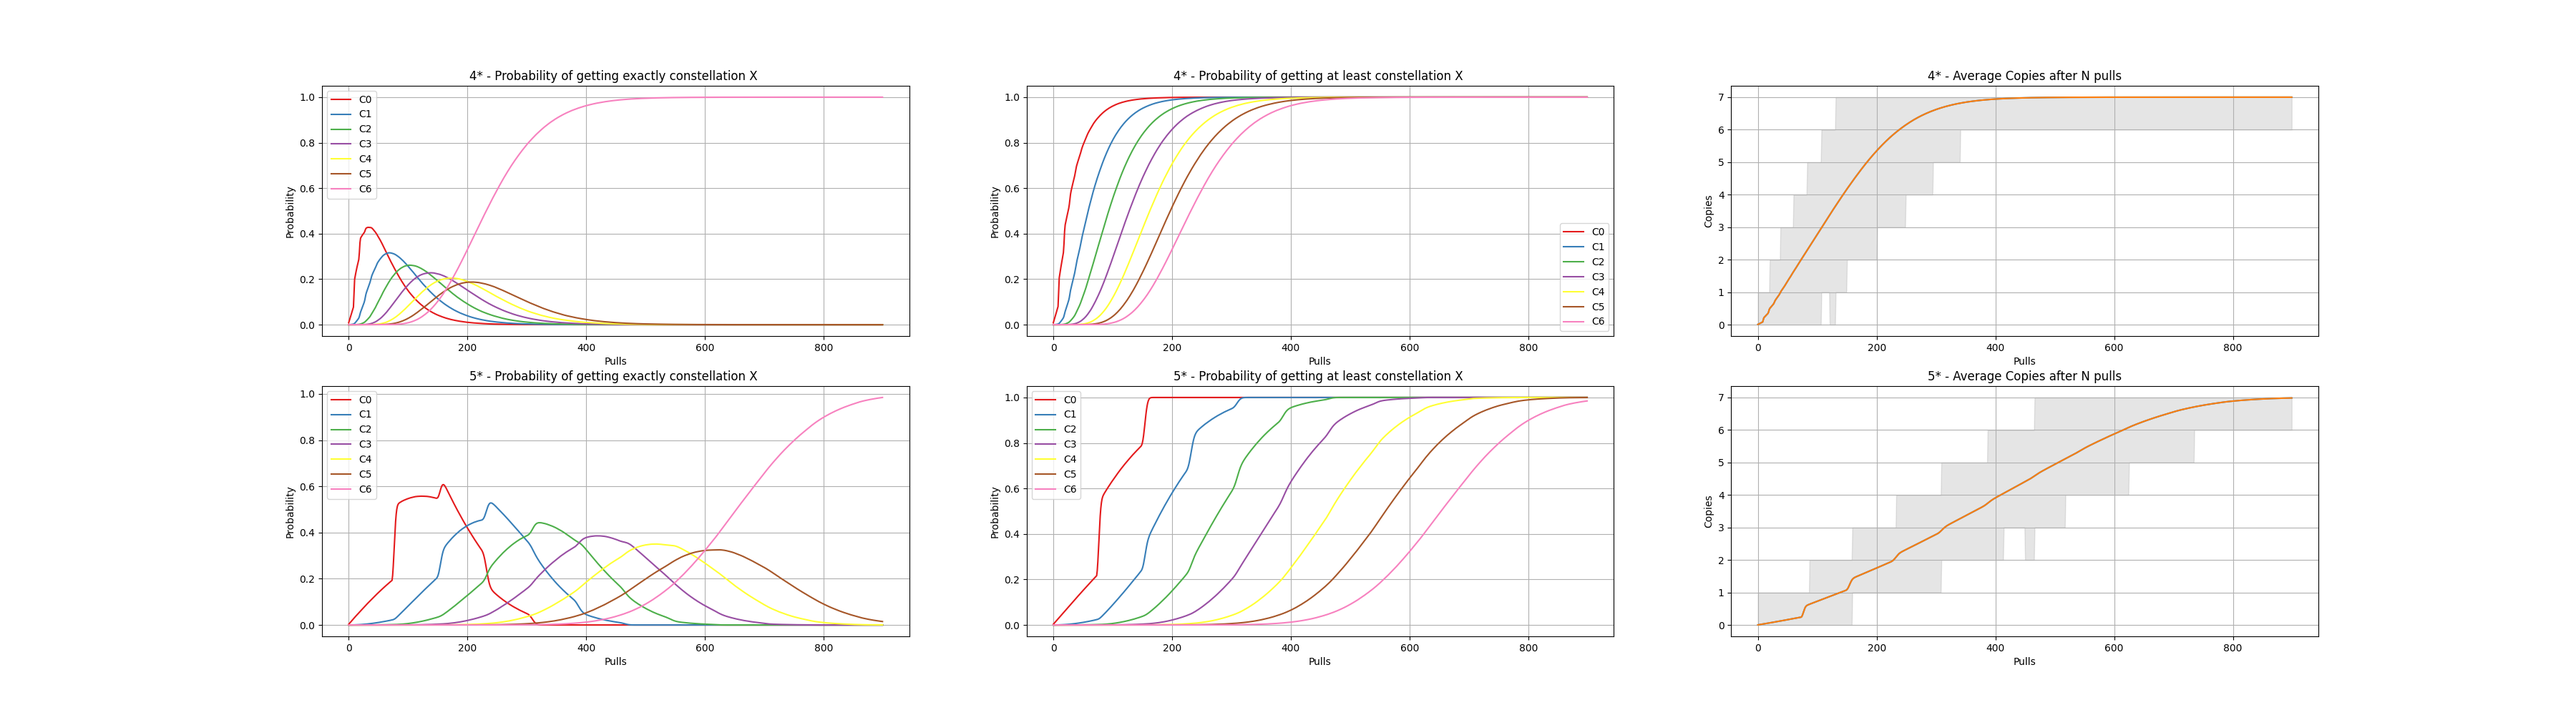
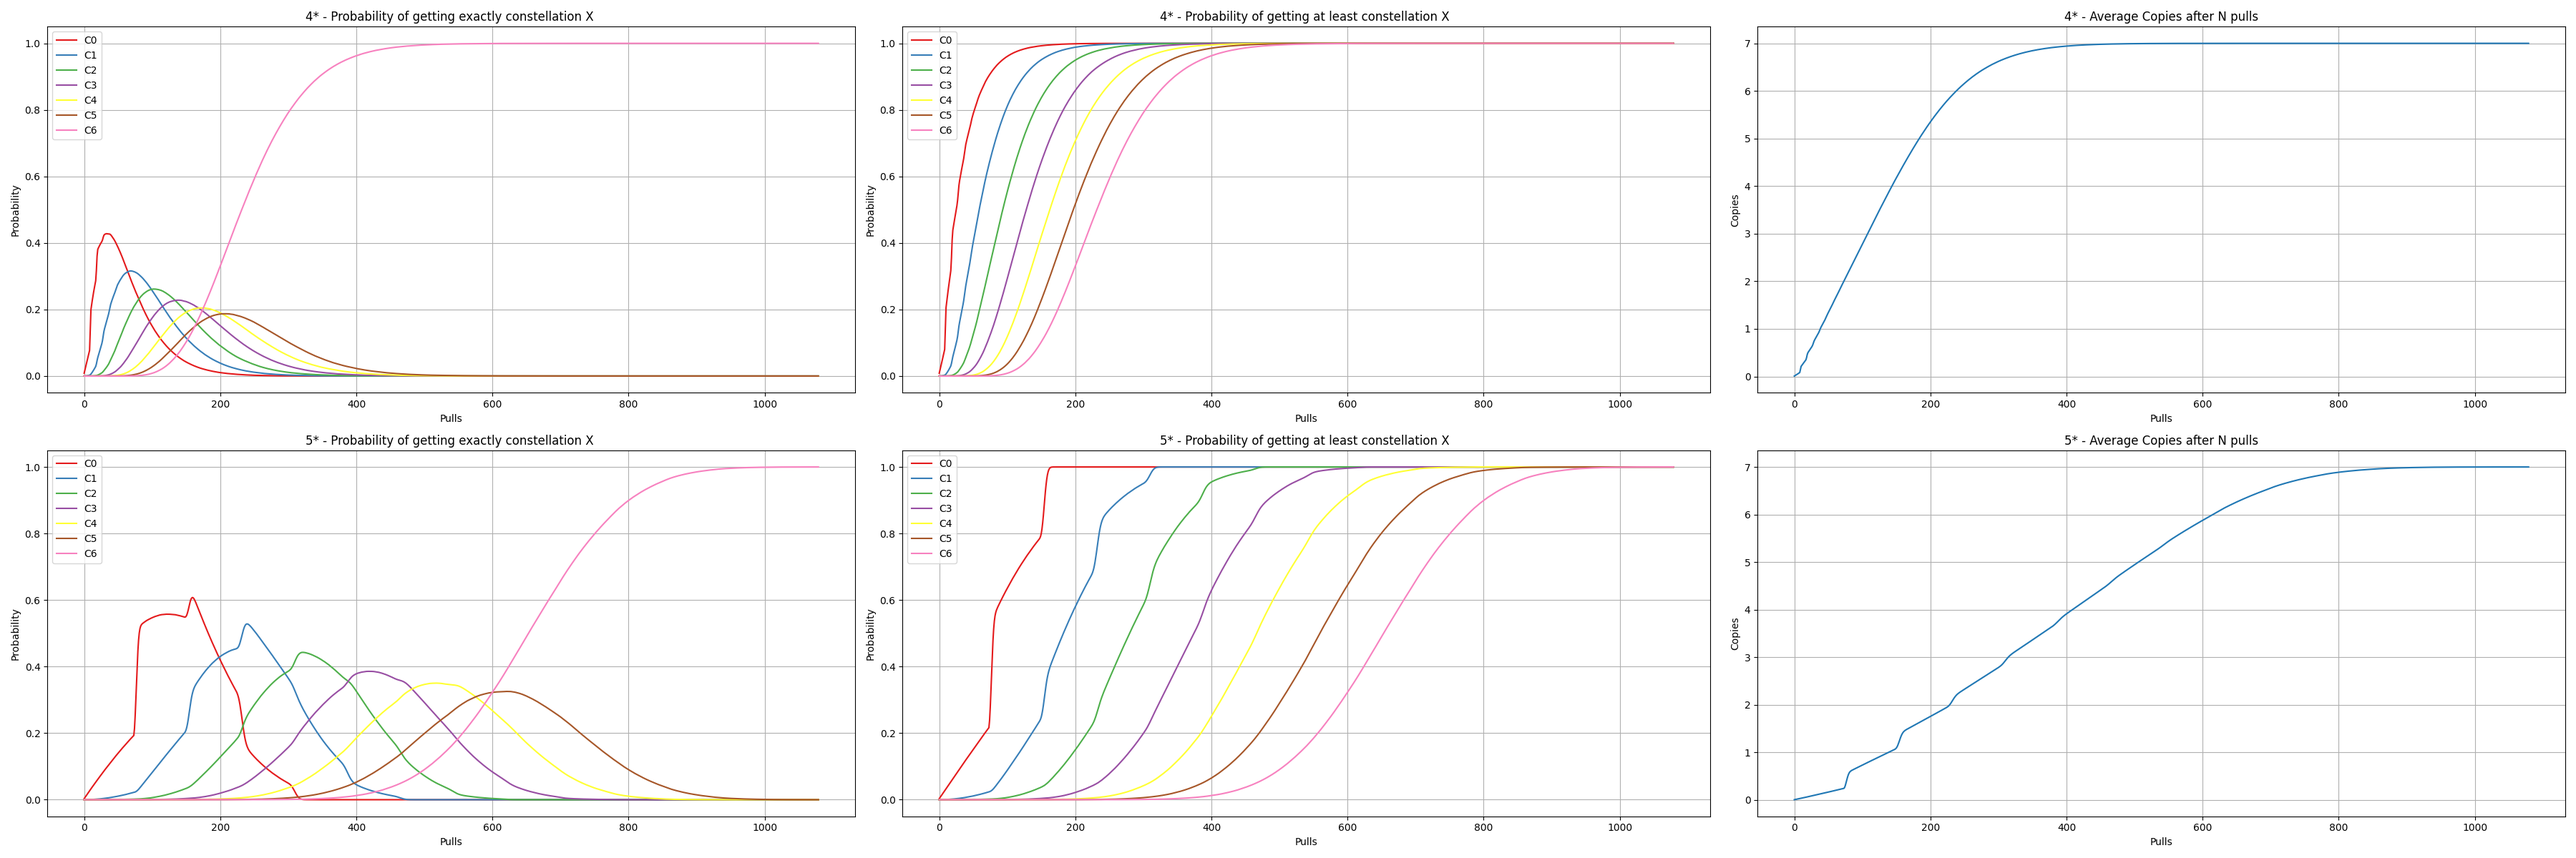
Added Tables, Readme Update

diff --git a/calculate_wish_stats.py b/calculate_wish_stats.py
@@ -3,7 +3,26 @@ import numpy as np
 from tqdm import trange
 import seaborn as sns
 import matplotlib.pyplot as plt
-plt.show()
+from prettytable import PrettyTable
+
+
+#https://gist.github.com/dbzm/68256c86c60d70072576
+def to_markdown_table(pt):
+    """
+    Print a pretty table as a markdown table
+
+    :param py:obj:`prettytable.PrettyTable` pt: a pretty table object.  Any customization
+      beyond int and float style may have unexpected effects
+
+    :rtype: str
+    :returns: A string that adheres to git markdown table rules
+    """
+    _junc = pt.junction_char
+    if _junc != "|":
+        pt.junction_char = "|"
+    markdown = [row[1:-1] for row in pt.get_string().split("\n")[1:-1]]
+    pt.junction_char = _junc
+    return "\n".join(markdown)
 
 #constants from
 #https://www.hoyolab.com/article/497840
@@ -79,7 +98,7 @@ def calculate_asymmetric_conf_interval(observations, data_means, confidence=0.95
 
 
 
-def calculate_wish_stats(trials, chain_length):
+def calculate_wish_stats(trials, chain_length, table_step):
     t = 0
     loot = np.zeros((trials, chain_length), dtype=int)
 
@@ -129,23 +148,66 @@ def calculate_wish_stats(trials, chain_length):
         #losers get 3 stars
         loot[~t_loot_distributed, t] = loot_table['three']
 
-
     print('Simulation done')
 
-    print('Evaluating Simulation and plotting...')
-    max_constellation = 7
-    wanted_five_stars_up_to = np.minimum(np.cumsum(loot == loot_table['five_banner'], axis=1), max_constellation)
-    wanted_four_star_up_to = np.minimum(np.cumsum(loot == loot_table['four_banner_wanted'], axis=1), max_constellation)
+    print('Evaluating Simulation...')
+    max_num_copies = 7
+    wanted_five_stars_up_to = np.minimum(np.cumsum(loot == loot_table['five_banner'], axis=1), max_num_copies)
+    wanted_four_star_up_to = np.minimum(np.cumsum(loot == loot_table['four_banner_wanted'], axis=1), max_num_copies)
 
-    scale_factor = 4
-    fig, axs = plt.subplots(2, 3, figsize=(3 * 3 * scale_factor, 2.5 * scale_factor))
+    exact_constellation_probabilities = {}
+    at_least_constellation_probabilities = {}
+    average_copies = {}
+
     for i, (data, name) in enumerate(zip([wanted_four_star_up_to, wanted_five_stars_up_to], ['4*', '5*'])):
+        exact_ps_i = np.zeros((max_num_copies, chain_length), dtype=float)
+        at_least_ps_i = np.zeros((max_num_copies, chain_length), dtype=float)
+
+        for const in range(max_num_copies):
+            exact_ps_i[const] = np.mean(data == const + 1, axis=0)
+            at_least_ps_i[const] = np.mean(data >= const + 1, axis=0)
+
+        avg_copies_i = np.mean(data, axis=0)
+
+        exact_constellation_probabilities[name] = exact_ps_i
+        at_least_constellation_probabilities[name] = at_least_ps_i
+        average_copies[name] = avg_copies_i
+
+    table_idcs = np.arange(table_step, chain_length + table_step, table_step, dtype=int) - 1
+    table_idcs[-1] = chain_length - 1
+
+    print('Generating tables...')
+    for name in ['4*', '5*']:
+        for data_dict, table_name in zip([exact_constellation_probabilities, at_least_constellation_probabilities],
+                                         ['Probability of getting exactly constellation X',
+                                          'Probability of getting at least constellation X']):
+            data = data_dict[name]
+
+            table_column_names = ['Pulls', ] + [f'C{n}' for n in range(max_num_copies)]
+            table = PrettyTable(table_column_names, float_format='.4')
+
+            for table_idx in table_idcs:
+                row = [table_idx + 1, ] + data[:, table_idx].tolist()
+                table.add_row(row)
+
+            print(f'{name} - {table_name}')
+            print(table)
+            print('\n\n')
+
+            #only used for readme.md
+            #print(to_markdown_table(table))
+            #print('\n')
+
+    print('Generating plot...')
+    scale_factor = 4
+    fig, axs = plt.subplots(2, 3, figsize=(3 * 3 * scale_factor, 3 * scale_factor))
+    for i, name in enumerate(['4*', '5*']):
         ax = axs[i, 0]
         color_map = plt.get_cmap('Set1')
-        for const in range(max_constellation):
-            x = np.arange(chain_length)
-            y = np.mean(data == const + 1, axis=0)
-            ax.plot(x, y, color=color_map(const / max_constellation), label=f'C{const}')
+        x = np.arange(chain_length)
+        for const in range(max_num_copies):
+            y = exact_constellation_probabilities[name][const,:]
+            ax.plot(x, y, color=color_map(const / max_num_copies), label=f'C{const}')
         ax.grid()
         ax.legend()
         ax.set_title(f'{name} - Probability of getting exactly constellation X ')
@@ -154,10 +216,9 @@ def calculate_wish_stats(trials, chain_length):
 
         ax = axs[i, 1]
         color_map = plt.get_cmap('Set1')
-        for const in range(max_constellation):
-            x = np.arange(chain_length)
-            y = np.mean(data >= const + 1, axis=0)
-            ax.plot(x, y, color=color_map(const / max_constellation), label=f'C{const}')
+        for const in range(max_num_copies):
+            y = at_least_constellation_probabilities[name][const,:]
+            ax.plot(x, y, color=color_map(const / max_num_copies), label=f'C{const}')
         ax.grid()
         ax.legend()
         ax.set_title(f'{name} - Probability of getting at least constellation X ')
@@ -167,24 +228,23 @@ def calculate_wish_stats(trials, chain_length):
         ax = axs[i, 2]
 
         x = np.arange(chain_length)
-        data_mean = np.mean(data, axis=0)
-        data_plus, data_minus = calculate_asymmetric_conf_interval(data, data_mean, confidence=0.95)
-        ax.plot(x, data_mean)
-        ax.fill_between(x, data_minus, data_plus, color='gray', alpha=0.2)
-
-        ax.plot(x, data_mean)
+        y = average_copies[name]
+        ax.plot(x, y)
         ax.grid()
         ax.set_title(f'{name} - Average Copies after N pulls')
         ax.set_xlabel('Pulls')
         ax.set_ylabel('Copies')
 
+    plt.tight_layout()
     plt.savefig('simulation_results.png')
 
 def parse_args():
     parser = argparse.ArgumentParser(description='Parse arguments', prefix_chars='-')
     parser.add_argument('--trials', default=1_500_000, type=int,
                     help='Number of trials to simulate')
-    parser.add_argument('--chain_length', default=900, type=int,
+    parser.add_argument('--chain_length', default=1080, type=int,
+                    help='Number of draws per trial')
+    parser.add_argument('--table_step', default=50, type=int,
                     help='Number of draws per trial')
     parser.add_argument('--seed', default=0, type=int,
                     help='RNG seed')
@@ -194,7 +254,8 @@ if __name__ == '__main__':
     args = parse_args()
     trials = args.trials
     chain_length = args.chain_length
+    table_step = args.table_step
     seed = args.seed
     np.random.seed(seed)
-    calculate_wish_stats(trials, chain_length)
+    calculate_wish_stats(trials, chain_length, table_step)
 

diff --git a/readme.md b/readme.md
@@ -17,15 +17,49 @@ To run the simulation simply run:
 
 > python calculate_wish_stats.py
 
-The results are saved to 'simulation_results.png':
+The script will output Tables containing Tables containing both the probabilities of getting exactly constellation N
+and at least constellation N after a certain number of pulls. For example, the probabilities of getting a specific 
+constellation after N pulls are:
+
+5* - Probability of getting exactly constellation X
+
+ Pulls |   C0   |   C1   |   C2   |   C3   |   C4   |   C5   |   C6   
+-------|--------|--------|--------|--------|--------|--------|--------
+   50  | 0.1376 | 0.0103 | 0.0005 | 0.0000 | 0.0000 | 0.0000 | 0.0000 
+  100  | 0.5461 | 0.0792 | 0.0059 | 0.0004 | 0.0000 | 0.0000 | 0.0000 
+  150  | 0.5493 | 0.2058 | 0.0332 | 0.0034 | 0.0003 | 0.0000 | 0.0000 
+  200  | 0.4241 | 0.4289 | 0.1259 | 0.0190 | 0.0019 | 0.0002 | 0.0000 
+  250  | 0.1312 | 0.5099 | 0.2824 | 0.0656 | 0.0097 | 0.0011 | 0.0001 
+  300  | 0.0509 | 0.3681 | 0.3847 | 0.1553 | 0.0350 | 0.0053 | 0.0007 
+  350  | 0.0000 | 0.1829 | 0.4205 | 0.2819 | 0.0926 | 0.0188 | 0.0033 
+  400  | 0.0000 | 0.0465 | 0.3290 | 0.3775 | 0.1832 | 0.0517 | 0.0121 
+  450  | 0.0000 | 0.0134 | 0.1867 | 0.3711 | 0.2794 | 0.1129 | 0.0364 
+  500  | 0.0000 | 0.0000 | 0.0734 | 0.2943 | 0.3459 | 0.1973 | 0.0890 
+  550  | 0.0000 | 0.0000 | 0.0176 | 0.1792 | 0.3425 | 0.2784 | 0.1823 
+  600  | 0.0000 | 0.0000 | 0.0038 | 0.0849 | 0.2695 | 0.3222 | 0.3196 
+  650  | 0.0000 | 0.0000 | 0.0000 | 0.0285 | 0.1728 | 0.3125 | 0.4863 
+  700  | 0.0000 | 0.0000 | 0.0000 | 0.0068 | 0.0889 | 0.2503 | 0.6539 
+  750  | 0.0000 | 0.0000 | 0.0000 | 0.0011 | 0.0360 | 0.1667 | 0.7961 
+  800  | 0.0000 | 0.0000 | 0.0000 | 0.0000 | 0.0107 | 0.0916 | 0.8977 
+  850  | 0.0000 | 0.0000 | 0.0000 | 0.0000 | 0.0025 | 0.0416 | 0.9559 
+  900  | 0.0000 | 0.0000 | 0.0000 | 0.0000 | 0.0004 | 0.0149 | 0.9847 
+  950  | 0.0000 | 0.0000 | 0.0000 | 0.0000 | 0.0000 | 0.0040 | 0.9960 
+  1000 | 0.0000 | 0.0000 | 0.0000 | 0.0000 | 0.0000 | 0.0009 | 0.9991 
+  1050 | 0.0000 | 0.0000 | 0.0000 | 0.0000 | 0.0000 | 0.0001 | 0.9999 
+  1080 | 0.0000 | 0.0000 | 0.0000 | 0.0000 | 0.0000 | 0.0000 | 1.0000 
+
+
+The results are also summarized in a plot and saved to 'simulation_results.png':
 
 ![](simulation_results.png)
 
-By default, we simulate 1.5 million trials of 900 pulls. If you want to use different values, simply use:
+By default, we simulate 1.5 million trials of 1080 pulls. 
+Running the script with default arguments has a peak memory consumption larger than 20GB. To reduce this, you can
+simply run the simulation with less trials.
 
 > python calculate_wish_stats.py --trials N --chain_length M
 
-The project requires Numpy, Matplotlib, Seaborn and TQDM. To install them from the included requirements file, simply use:
+The project dependencies are given in 'requirements.txt'. To install them from the included file, simply use:
 
 > pip install -r requirements.txt
 
